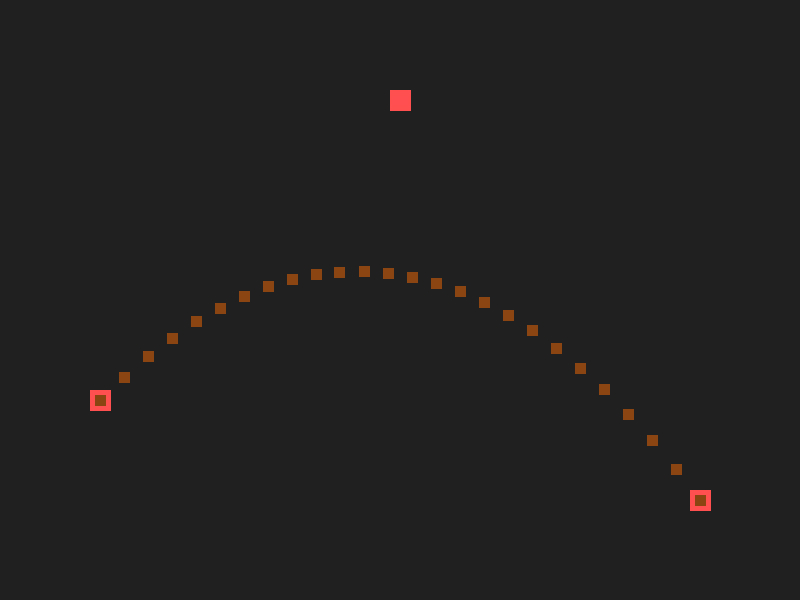
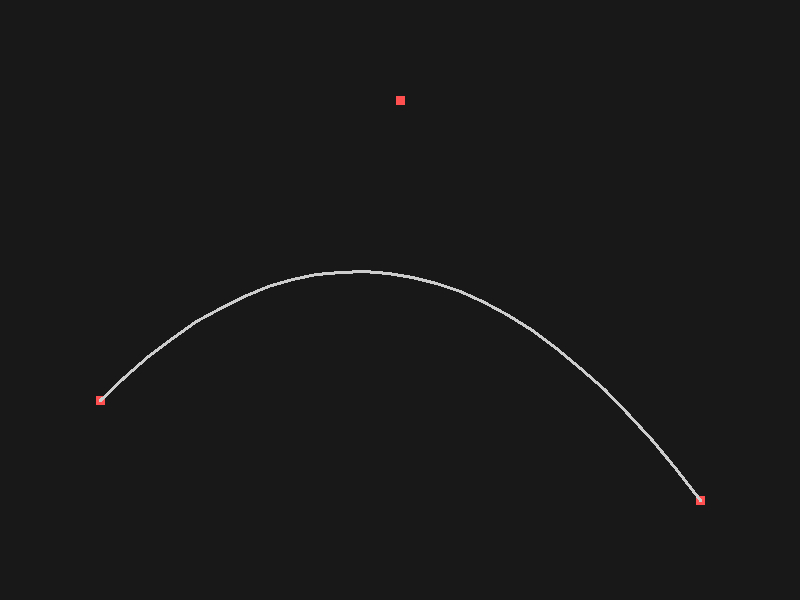
added better line drawing functions

diff --git a/graphite.h b/graphite.h
@@ -448,6 +448,70 @@ namespace Graphite {
                 }
             }
         }
+        static float distToSegment(float px, float py,
+                           float x1, float y1,
+                           float x2, float y2) {
+            float vx = x2 - x1;
+            float vy = y2 - y1;
+
+            float wx = px - x1;
+            float wy = py - y1;
+
+            float c1 = wx * vx + wy * vy;
+            if (c1 <= 0) return std::sqrt(wx * wx + wy * wy);
+
+            float c2 = vx * vx + vy * vy;
+            if (c2 <= c1) {
+                float dx = px - x2;
+                float dy = py - y2;
+                return std::sqrt(dx * dx + dy * dy);
+            }
+
+            float t = c1 / c2;
+
+            float bx = x1 + t * vx;
+            float by = y1 + t * vy;
+
+            float dx = px - bx;
+            float dy = py - by;
+
+            return std::sqrt(dx * dx + dy * dy);
+        }
+        void drawLine(i32 x1, i32 y1, i32 x2, i32 y2,
+                   const Color color, float thickness) const {
+
+            float r = thickness * 0.5f;
+
+            int minX = std::min(x1, x2) - thickness;
+            int maxX = std::max(x1, x2) + thickness;
+            int minY = std::min(y1, y2) - thickness;
+            int maxY = std::max(y1, y2) + thickness;
+
+            minX = std::max(minX, 0);
+            minY = std::max(minY, 0);
+            maxX = std::min(maxX, (int)WIDTH - 1);
+            maxY = std::min(maxY, (int)HEIGHT - 1);
+
+            for (int y = minY; y <= maxY; ++y) {
+                for (int x = minX; x <= maxX; ++x) {
+
+                    float d = distToSegment(
+                        (float)x, (float)y,
+                        (float)x1, (float)y1,
+                        (float)x2, (float)y2
+                    );
+
+                    if (d <= r) {
+#ifdef ALPHA_BLEND
+                        pixels[getPixelIndex(x, y)] =
+                            mixColors(pixels[getPixelIndex(x, y)], color);
+#else
+                        pixels[getPixelIndex(x, y)] = color;
+#endif
+                    }
+                }
+            }
+        }
         void drawPoint(const i32 x, const i32 y, const i32 radius, const Color color) const {
             i32 rx2 = radius * 2;
             fillRect(x - radius, y - radius, rx2, rx2, color);

diff --git a/testing/bezier_test.cpp b/testing/bezier_test.cpp
@@ -10,19 +10,25 @@ using namespace omni;
 Graphite::Canvas mainCanvas(800, 600);
 
 int main() {
-    mainCanvas.fillFast(0xff202020);
+    mainCanvas.fillFast(Graphite::Colors::DarkGrey);
 
     const Vec2<float> p1 = {100, 400};
     const Vec2<float> p2 = {400, 100};
     const Vec2<float> p3 = {700, 500};
 
-    mainCanvas.drawPoint(p1.x, p1.y, 10, Graphite::Colors::Red);
-    mainCanvas.drawPoint(p2.x, p2.y, 10, Graphite::Colors::Red);
-    mainCanvas.drawPoint(p3.x, p3.y, 10, Graphite::Colors::Red);
+    mainCanvas.drawPoint(p1.x, p1.y, 4, Graphite::Colors::Red);
+    mainCanvas.drawPoint(p2.x, p2.y, 4, Graphite::Colors::Red);
+    mainCanvas.drawPoint(p3.x, p3.y, 4, Graphite::Colors::Red);
 
-    for (float t = 0; t <= 1.01; t += 0.04) {
-        Vec2<float> p = bezierQuadratic(p1, p2, p3, t);
-        mainCanvas.drawPoint(p.x, p.y, 5, Graphite::Colors::Brown);
+    Vec2<float> prev = {p1.x, p1.y};
+
+    constexpr int numPoints = 25;
+
+    for (float t = 0; t <= numPoints; ++t) {
+        Vec2<float> p = bezierQuadratic(p1, p2, p3, (float)t/numPoints);
+        //mainCanvas.drawPoint(p.x, p.y, 5, Graphite::Colors::Green);
+        mainCanvas.drawLine(prev.x, prev.y, p.x, p.y, Graphite::Colors::LightGrey, 3);
+        prev = p;
     }
 
     if (!mainCanvas.saveToJPG("../bezier.jpg")) {
